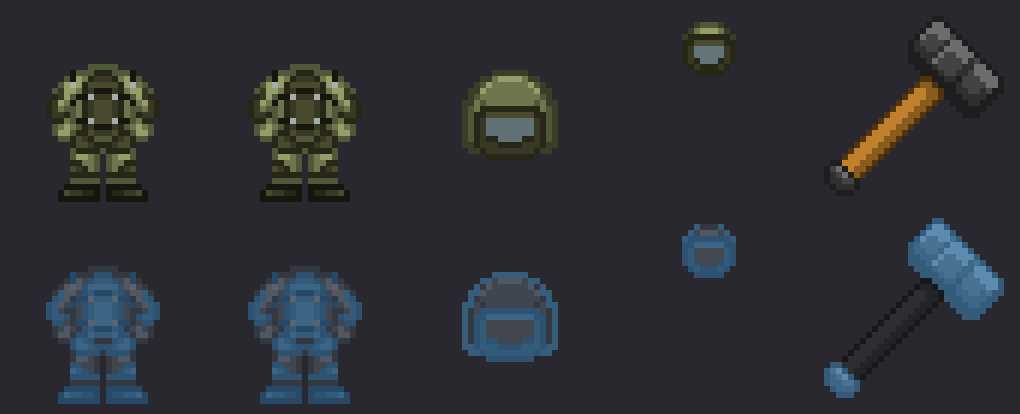
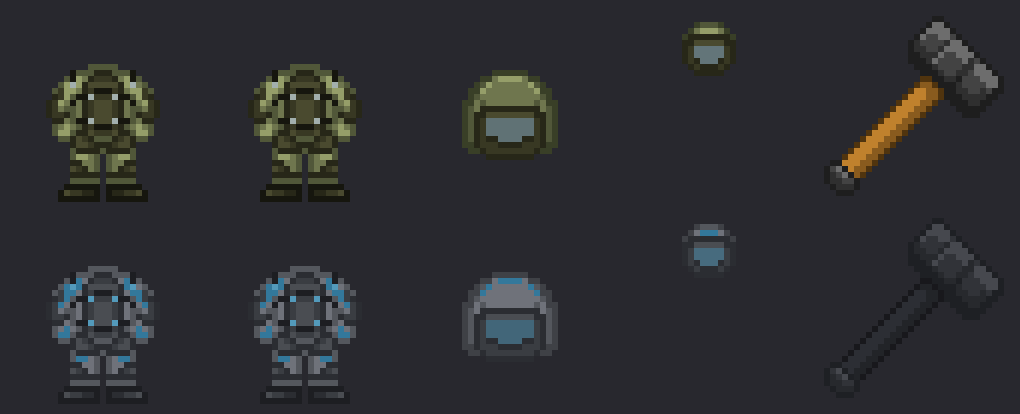
fix

diff --git a/Content.Server/_Wega/Duel/Systems/GoliathBossSystem.cs b/Content.Server/_Wega/Duel/Systems/GoliathBossSystem.cs
@@ -39,12 +39,27 @@ public sealed partial class GoliathBossSystem : EntitySystem
     [Dependency] private Content.Shared.Height.HeightSystem _height = default!;
     [Dependency] private Robust.Shared.Prototypes.IPrototypeManager _proto = default!;
     [Dependency] private SharedMapSystem _map = default!;
+    [Dependency] private Content.Shared.Humanoid.HumanoidProfileSystem _humanoidProfile = default!;
+    [Dependency] private Content.Shared.Body.SharedVisualBodySystem _visualBody = default!;
     [Dependency] private Robust.Shared.Map.ITileDefinitionManager _tileDefs = default!;
 
     public override void Initialize()
     {
         base.Initialize();
         SubscribeLocalEvent<GoliathBossComponent, DamageModifyEvent>(OnDamageModify);
+        SubscribeLocalEvent<GoliathBossComponent, Content.Shared.Interaction.Events.AttackAttemptEvent>(OnAttackAttempt);
+    }
+
+    /// <summary>
+    /// Пока Голиаф скован своим замахом (или стаггером), он не машет молотом: телеграф обязан быть
+    /// честным. Раньше для этого вешался настоящий стан — но любой стан рассылает
+    /// DropHandItemsEvent, и босс ронял молот перед каждой атакой. Блокируем ровно удар.
+    /// </summary>
+    private void OnAttackAttempt(Entity<GoliathBossComponent> ent,
+        ref Content.Shared.Interaction.Events.AttackAttemptEvent args)
+    {
+        if (ent.Comp.State != GoliathState.Idle || ent.Comp.StaggeredUntil != null)
+            args.Cancel();
     }
 
     /// <summary>Стаггер-окно: оглушённый об стену Голиаф получает двойной урон.</summary>
@@ -82,10 +97,11 @@ public sealed partial class GoliathBossSystem : EntitySystem
             {
                 if (now < staggered)
                 {
-                    // Держим стан ФИКСИРОВАННО до конца окна. Снятия ActiveNPCComponent мало:
-                    // NPCOptimizationSystem будит NPC, у которого рядом игрок или который получил
-                    // урон, — то есть ровно в стаггер-окне стан и «сходил на нет».
-                    HoldStun(uid, staggered - now);
+                    // Окно ФИКСИРОВАННОЕ и не прерывается: удары гасит OnAttackAttempt, движение —
+                    // снятый ActiveNPC плюс обнуление скорости выше. Снятия ActiveNPCComponent
+                    // одного было мало — NPCOptimizationSystem будит NPC, рядом с которым игрок
+                    // или который получил урон, то есть ровно в стаггер-окне.
+                    RemComp<ActiveNPCComponent>(uid);
                     continue;
                 }
 
@@ -95,10 +111,11 @@ public sealed partial class GoliathBossSystem : EntitySystem
                     InGameICChatType.Emote, ChatTransmitRange.Normal, ignoreActionBlocker: true);
             }
 
-            // В любом «занятом» состоянии босс скован собственным замахом: тем же станом гасим
-            // и ходьбу, и удары молотом, которые иначе продолжались бы прямо сквозь телеграф.
+            // В «занятом» состоянии босс скован замахом: удары режет OnAttackAttempt, а ходьбу —
+            // снятый ActiveNPC (его постоянно возвращает NPCOptimizationSystem, поэтому снимаем
+            // каждый тик) и обнуление скорости выше.
             if (goliath.State != GoliathState.Idle)
-                HoldStun(uid, TimeSpan.FromSeconds(0.4));
+                RemComp<ActiveNPCComponent>(uid);
 
             switch (goliath.State)
             {
@@ -132,21 +149,9 @@ public sealed partial class GoliathBossSystem : EntitySystem
     }
 
     /// <summary>
-    /// Держит настоящий стан (StunnedComponent) заданное время. Он блокирует AttackAttempt и
-    /// движение на уровне ActionBlocker, поэтому переживает пробуждение NPC — в отличие от снятия
-    /// ActiveNPCComponent, которое NPCOptimizationSystem откатывает через долю секунды.
-    /// </summary>
-    private void HoldStun(EntityUid uid, TimeSpan duration)
-    {
-        if (duration <= TimeSpan.Zero)
-            return;
-
-        _stun.TryUpdateStunDuration(uid, duration);
-    }
-
-    /// <summary>
-    /// Разовая инициализация: рост всегда максимальный для вида — Голиаф обязан нависать.
-    /// Делается в первом Update (после MapInit порядок применения случайной внешности уже не важен).
+    /// Разовая инициализация: Голиаф всегда мужчина максимального для вида роста — босс обязан
+    /// выглядеть одинаково и нависать, а не выпадать случайной субтильной фигурой.
+    /// Делается в первом Update — после того, как отработала случайная внешность.
     /// </summary>
     private void InitOnce(EntityUid uid, GoliathBossComponent goliath)
     {
@@ -154,8 +159,19 @@ public sealed partial class GoliathBossSystem : EntitySystem
             return;
         goliath.SetupDone = true;
 
-        if (TryComp<Content.Shared.Humanoid.HumanoidProfileComponent>(uid, out var humanoid)
-            && _proto.TryIndex(humanoid.Species, out var species))
+        if (!TryComp<Content.Shared.Humanoid.HumanoidProfileComponent>(uid, out var humanoid))
+            return;
+
+        var profile = Content.Shared.Preferences.HumanoidCharacterProfile
+            .RandomWithSpecies(humanoid.Species)
+            .WithSex(Content.Shared.Humanoid.Sex.Male)
+            .WithGender(Robust.Shared.Enums.Gender.Male);
+
+        _visualBody.ApplyProfileTo(uid, profile);
+        _humanoidProfile.ApplyProfileTo(uid, profile);
+        // Имя не трогаем: оно из прототипа (ent-ключ), а не из случайного профиля.
+
+        if (_proto.TryIndex(humanoid.Species, out var species))
             _height.SetHeight(uid, species.MaxHeight);
     }
 

diff --git a/dev/gen_goliath_gear.py b/dev/gen_goliath_gear.py
@@ -26,12 +26,18 @@ TEX = os.path.join(ROOT, "Resources", "Textures")
 PREVIEW = os.path.join(ROOT, "dev", "goliath_gear_preview.png")
 
 # --- палитра «мёрзлой стали» ---
-STEEL_DARK = (16, 18, 24)
-STEEL_LIGHT = (128, 138, 152)
-ICE_DARK = (30, 62, 92)
-ICE_LIGHT = (140, 200, 240)
+# Корпус — тёмный гансметал, ледяная синева осталась только кромкой/визором.
+# Раньше корпус и акцент делились по НАСЫЩЕННОСТИ, но у бомб-костюма-исходника 61% пикселей
+# насыщеннее порога, и в лёд уходила почти вся броня — босс выглядел блёкло-синим целиком.
+STEEL_DARK = (10, 11, 14)
+STEEL_LIGHT = (126, 130, 138)
+ICE_DARK = (20, 86, 124)
+ICE_LIGHT = (150, 226, 255)
 IRON_DARK = (10, 10, 12)
 IRON_LIGHT = (74, 78, 86)
+
+# Яркость, выше которой пиксель считается кромкой/бликом и красится акцентом (~9% брони).
+TRIM_THRESHOLD = 0.5
 
 ITEMS = [
     # (источник, назначение, режим)
@@ -65,20 +71,29 @@ def saturation(r, g, b):
 
 
 def recolor_armor(r, g, b):
-    """Бомб-костюм: корпус → сталь; насыщенные детали (ремни/визор) → ледяная синева."""
+    """
+    Бомб-костюм → тяжёлая рыцарская плита: тёмная масса брони с ледяной кромкой.
+    Делим по ЯРКОСТИ, а не по насыщенности: у исходника насыщены почти все пиксели, и по
+    насыщенности вся броня уходила в лёд. Обе части растягиваем на полную рампу, иначе тёмный
+    исходник даёт грязное серое пятно вместо металла.
+    """
     lum = luminance(r, g, b)
-    if saturation(r, g, b) > 0.35:
-        return ramp(lum, ICE_DARK, ICE_LIGHT)
-    return ramp(lum, STEEL_DARK, STEEL_LIGHT)
+    if lum > TRIM_THRESHOLD:
+        return ramp(min(1.0, (lum - TRIM_THRESHOLD) / 0.35), ICE_DARK, ICE_LIGHT)
+    return ramp(lum / TRIM_THRESHOLD, STEEL_DARK, STEEL_LIGHT)
 
 
 def recolor_hammer(r, g, b):
-    """Кувалда: тёплая рукоять → чернёное железо; серая голова → светлая мёрзлая сталь."""
+    """
+    Кувалда: тёплая рукоять → чернёное железо; голова → холодная сталь брони с ледяным бликом
+    только на самых светлых гранях. Целиком ледяная голова смотрелась пластиковой игрушкой.
+    """
     lum = luminance(r, g, b)
-    warm = r > b + 15  # дерево/тёплые тона
-    if warm:
+    if r > b + 15:  # дерево/тёплые тона — рукоять
         return ramp(lum, IRON_DARK, IRON_LIGHT)
-    return ramp(min(1.0, lum * 1.15 + 0.08), ICE_DARK, ICE_LIGHT)
+    if lum > 0.72:  # редкий блик на кромке бойка
+        return ramp(min(1.0, (lum - 0.72) / 0.28), ICE_DARK, ICE_LIGHT)
+    return ramp(min(1.0, lum * 1.1 + 0.05), STEEL_DARK, STEEL_LIGHT)
 
 
 MODES = {"armor": recolor_armor, "hammer": recolor_hammer}

diff --git a/Content.Server/_Wega/Duel/Systems/DancerBossSystem.cs b/Content.Server/_Wega/Duel/Systems/DancerBossSystem.cs
@@ -81,8 +81,10 @@ public sealed partial class DancerBossSystem : EntitySystem
         dancer.StateEndsAt = _timing.CurTime + TimeSpan.FromSeconds(dancer.KneelDuration);
         dancer.ExhaustedUntil = null;
         dancer.ComboCount = 0;
+        Spawn(dancer.StasisProto, Transform(uid).Coordinates);
+        _audio.PlayPvs(dancer.RiseSound, uid);
         _chat.TrySendInGameICMessage(uid,
-            "падает на колени, опираясь на клинок, — пепел медленно кружит вокруг неё",
+            "падает в стазис, опираясь на клинок, — пепел запечатывает её на несколько секунд",
             InGameICChatType.Emote, ChatTransmitRange.Normal, ignoreActionBlocker: true);
     }
 
@@ -246,7 +248,6 @@ public sealed partial class DancerBossSystem : EntitySystem
         dancer.SecondLife = true;
         EnsureComp<ActiveNPCComponent>(uid);
         Spawn(dancer.RiseProto, Transform(uid).Coordinates);
-        _audio.PlayPvs(dancer.RiseSound, uid);
         _chat.TrySendInGameICMessage(uid,
             "поднимается — из-под капюшона вспыхивают угли, клинки раскаляются добела",
             InGameICChatType.Emote, ChatTransmitRange.Normal, ignoreActionBlocker: true);

diff --git a/Content.Server/_Wega/Duel/Components/DancerBossComponent.cs b/Content.Server/_Wega/Duel/Components/DancerBossComponent.cs
@@ -87,9 +87,9 @@ public sealed partial class DancerBossComponent : Component
     [DataField]
     public float SecondLifeHealthFraction = 0.4f;
 
-    /// <summary>Сколько секунд стоит на коленях (неуязвима, пауза-передышка для всех).</summary>
+    /// <summary>Сколько секунд находится в стазисе (неуязвима, пауза-передышка для всех).</summary>
     [DataField]
-    public float KneelDuration = 3f;
+    public float KneelDuration = 4f;
 
     /// <summary>Множитель кулдаунов после второго дыхания.</summary>
     [DataField]
@@ -121,6 +121,9 @@ public sealed partial class DancerBossComponent : Component
 
     [DataField]
     public EntProtoId RiseProto = "EffectDancerRise";
+
+    [DataField]
+    public EntProtoId StasisProto = "EffectDancerStasis";
 
     [DataField]
     public SoundSpecifier SpinSound = new SoundPathSpecifier("/Audio/_Wega/Duel/dancer/spin.ogg");
